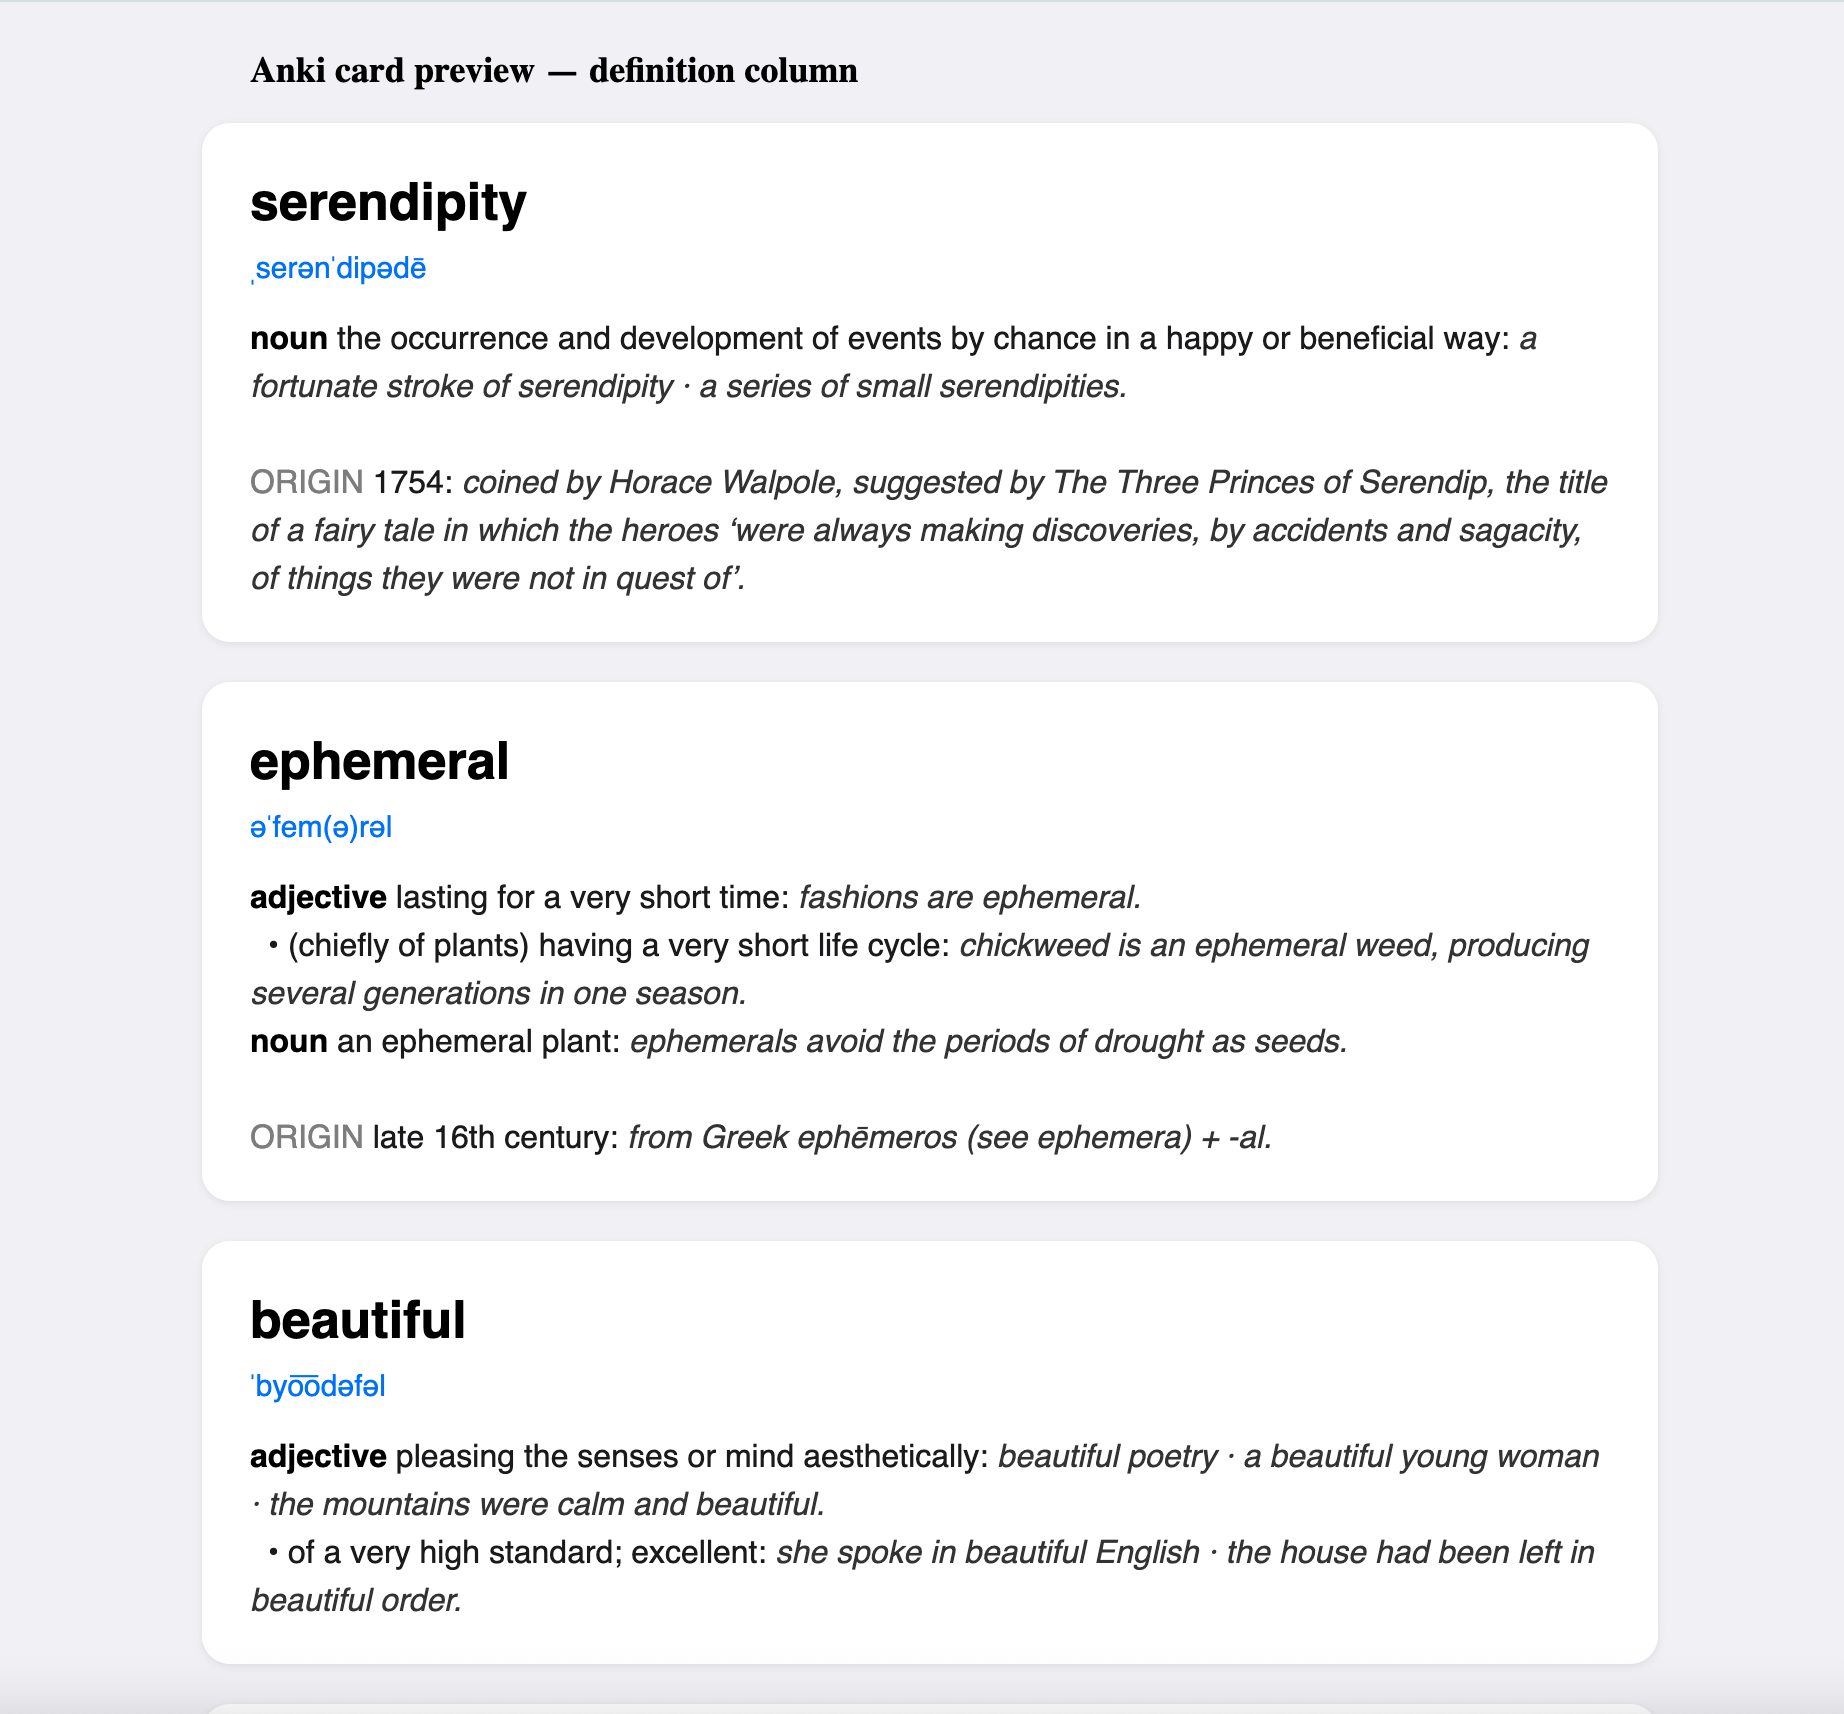
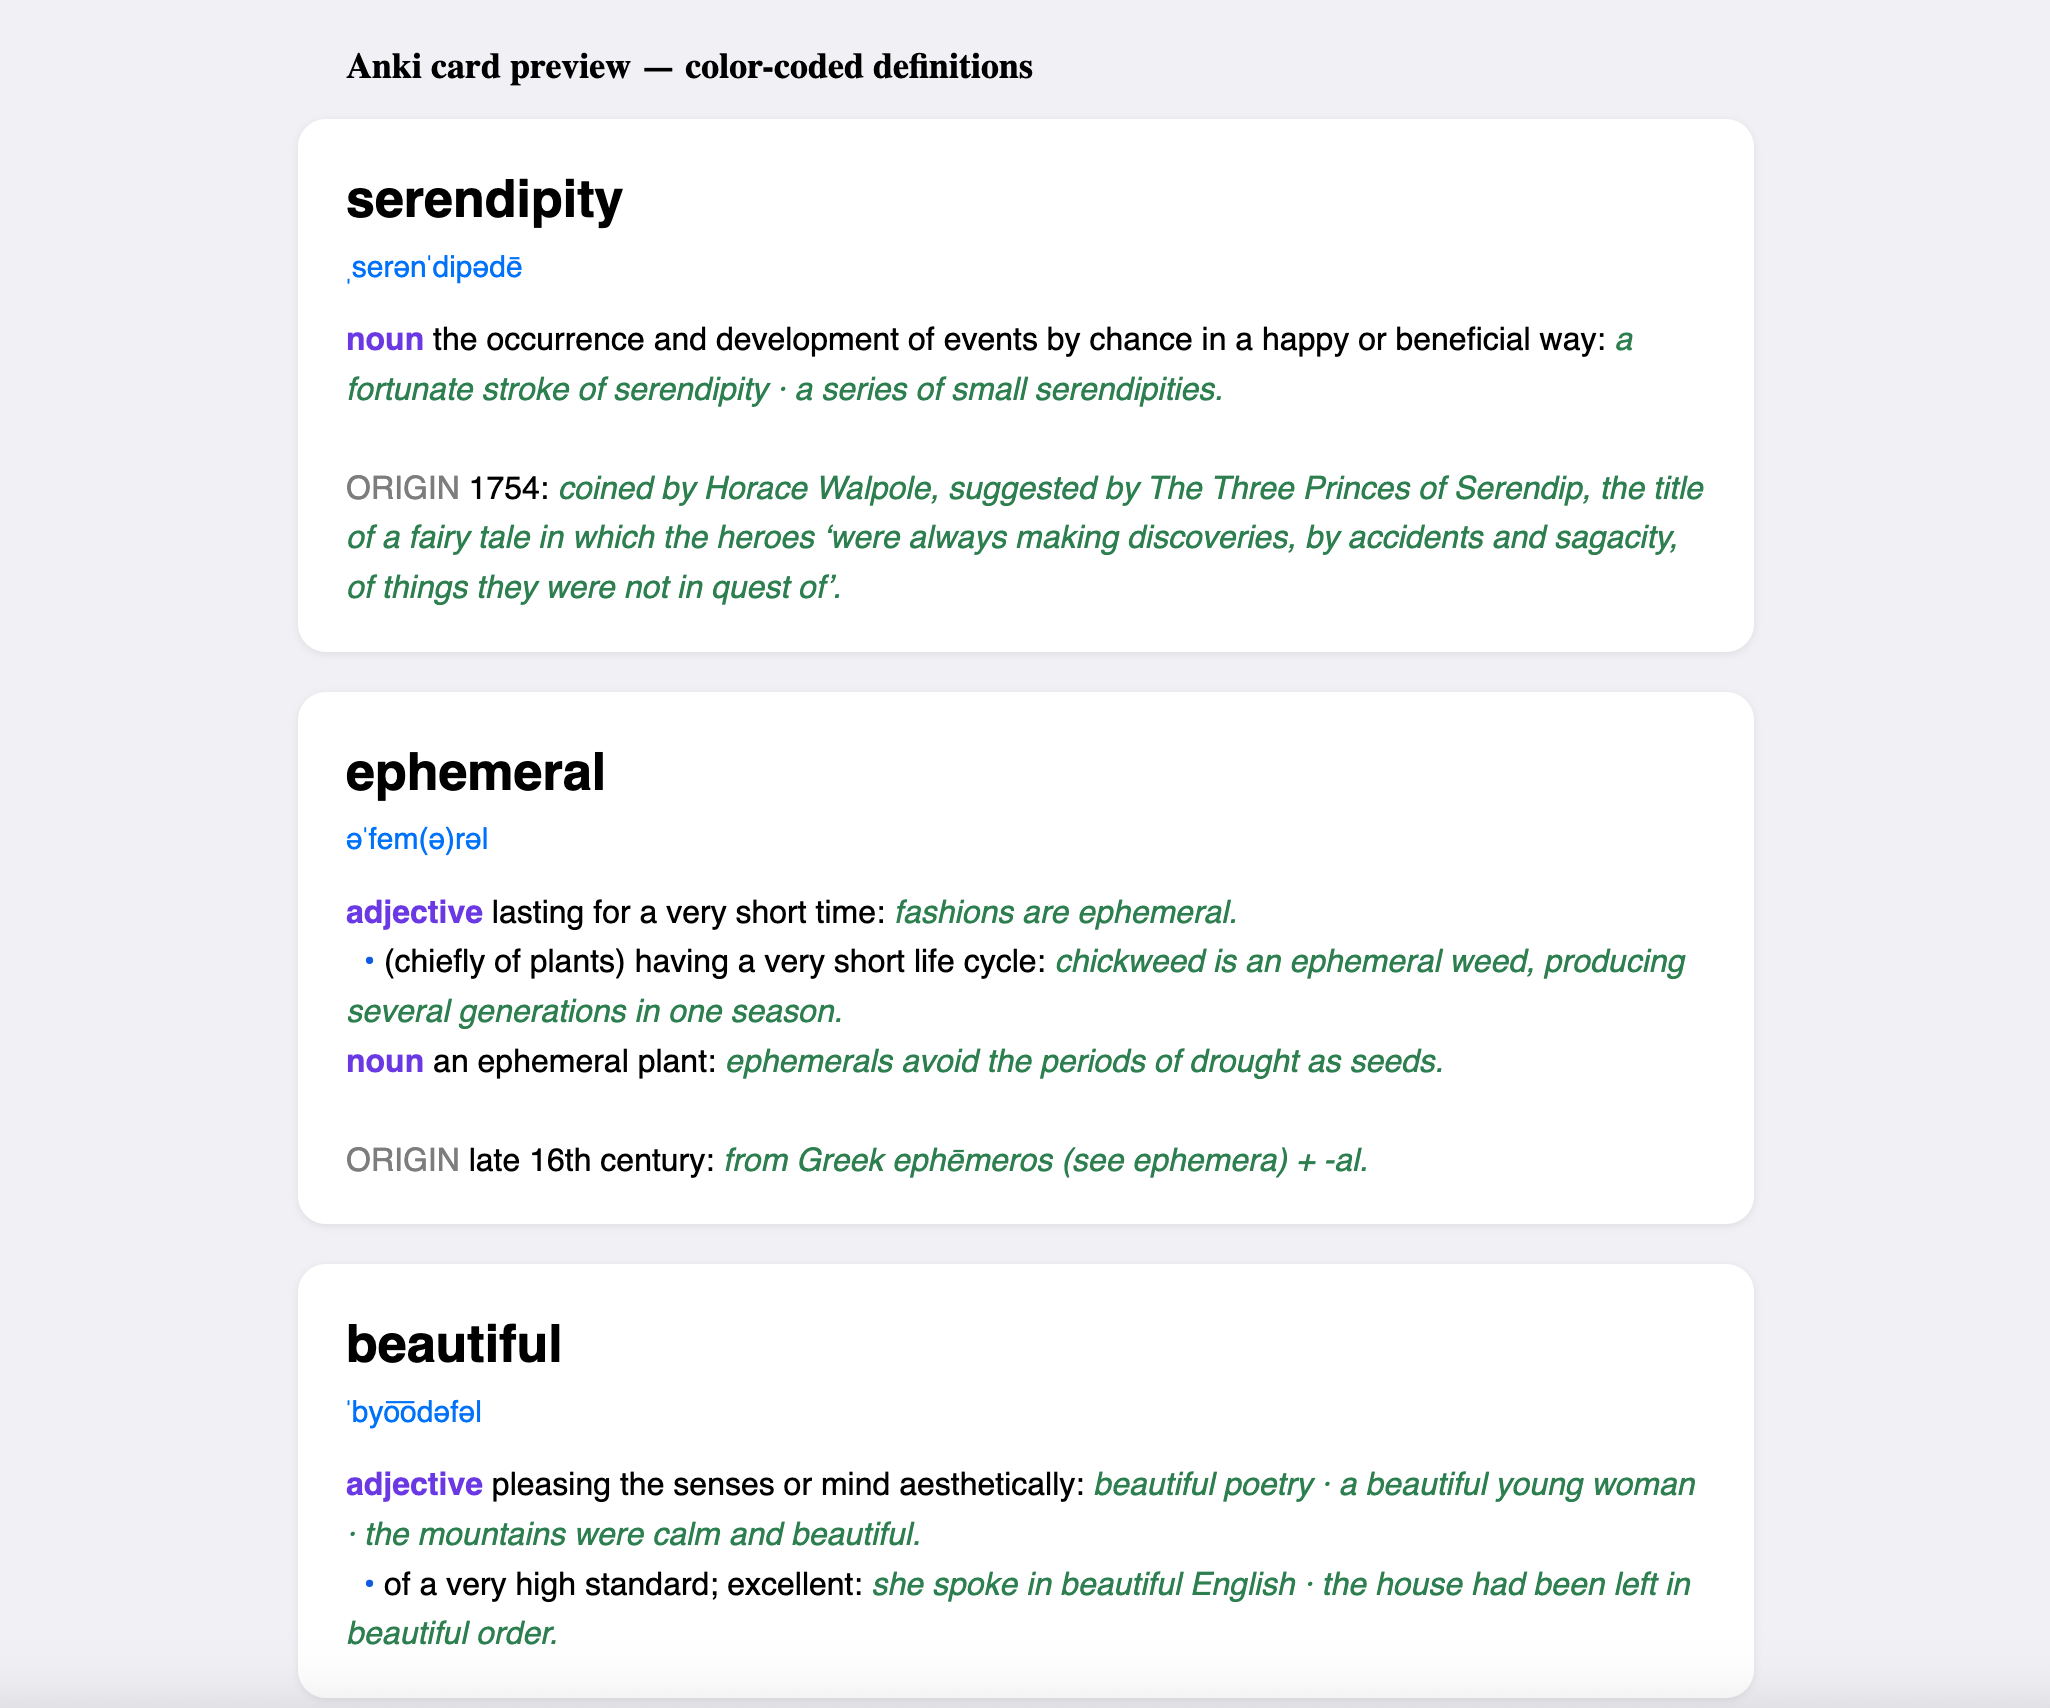
Color-code definitions for readability
Parts of speech (violet), sense numbers and bullets (blue), example
sentences (green), and grammar labels / ORIGIN (gray); definition body
keeps the card's default color. Colors are mid-toned to stay legible on
both light and dark Anki cards, and live in tweakable constants. README
screenshot refreshed to show the colors.

diff --git a/lookup_save.py b/lookup_save.py
@@ -89,18 +89,26 @@ def trim_entry(body):
     return core  # ORIGIN (if any) is already inside core
 
 
+# Colors are mid-toned so they stay legible on Anki's light *and* dark cards.
+# Tweak these to taste. Definition body text is left at the card's default color.
+_C_POS = "#7c3aed"      # parts of speech (violet)
+_C_SENSE = "#2563eb"    # sense numbers & sub-sense bullets (blue)
+_C_EXAMPLE = "#2e8b57"  # example sentences (green)
+_C_MUTED = "#888888"    # grammar labels & ORIGIN heading (gray)
+
+
 def format_definition(body):
-    """Turn the flat dictionary blob into structured HTML for Anki."""
+    """Turn the flat dictionary blob into structured, color-coded HTML for Anki."""
     t = trim_entry(body.strip())
     t = re.sub(r"\s*\|\s*", " · ", t)                       # overloaded pipe -> middot
     t = t.replace(" · )", ")").replace(" · ;", ";").replace(" · ,", ",")
-    t = _POS_RE.sub(r"<br><b>\1</b>", t)                    # parts of speech
-    t = _SECTION_RE.sub(r'<br><br><span style="color:#888">\1</span>', t)
-    t = _SENSE_RE.sub(r"<br><b>\1.</b> ", t)                # numbered senses
-    t = t.replace(" • ", "<br>&nbsp;&nbsp;• ")              # sub-senses
-    t = re.sub(r"\[([^\]]+)\]", r"<i>[\1]</i>", t)          # grammar labels
+    t = _POS_RE.sub(r'<br><b style="color:%s">\1</b>' % _C_POS, t)          # parts of speech
+    t = _SECTION_RE.sub(r'<br><br><span style="color:%s">\1</span>' % _C_MUTED, t)
+    t = _SENSE_RE.sub(r'<br><b style="color:%s">\1.</b> ' % _C_SENSE, t)    # numbered senses
+    t = t.replace(" • ", '<br>&nbsp;&nbsp;<span style="color:%s">•</span> ' % _C_SENSE)
+    t = re.sub(r"\[([^\]]+)\]", r'<i style="color:%s">[\1]</i>' % _C_MUTED, t)  # grammar labels
     t = re.sub(r":\s([^<]+?)(?=<|$)",                       # example sentences
-               lambda m: ": <i>%s</i>" % m.group(1).rstrip(), t)
+               lambda m: ': <i style="color:%s">%s</i>' % (_C_EXAMPLE, m.group(1).rstrip()), t)
     t = re.sub(r"^(?:<br>)+", "", t)                        # no leading break
     t = t.replace("</b> <br>", "</b><br>")
     t = re.sub(r"[ ]{2,}", " ", t).strip()
